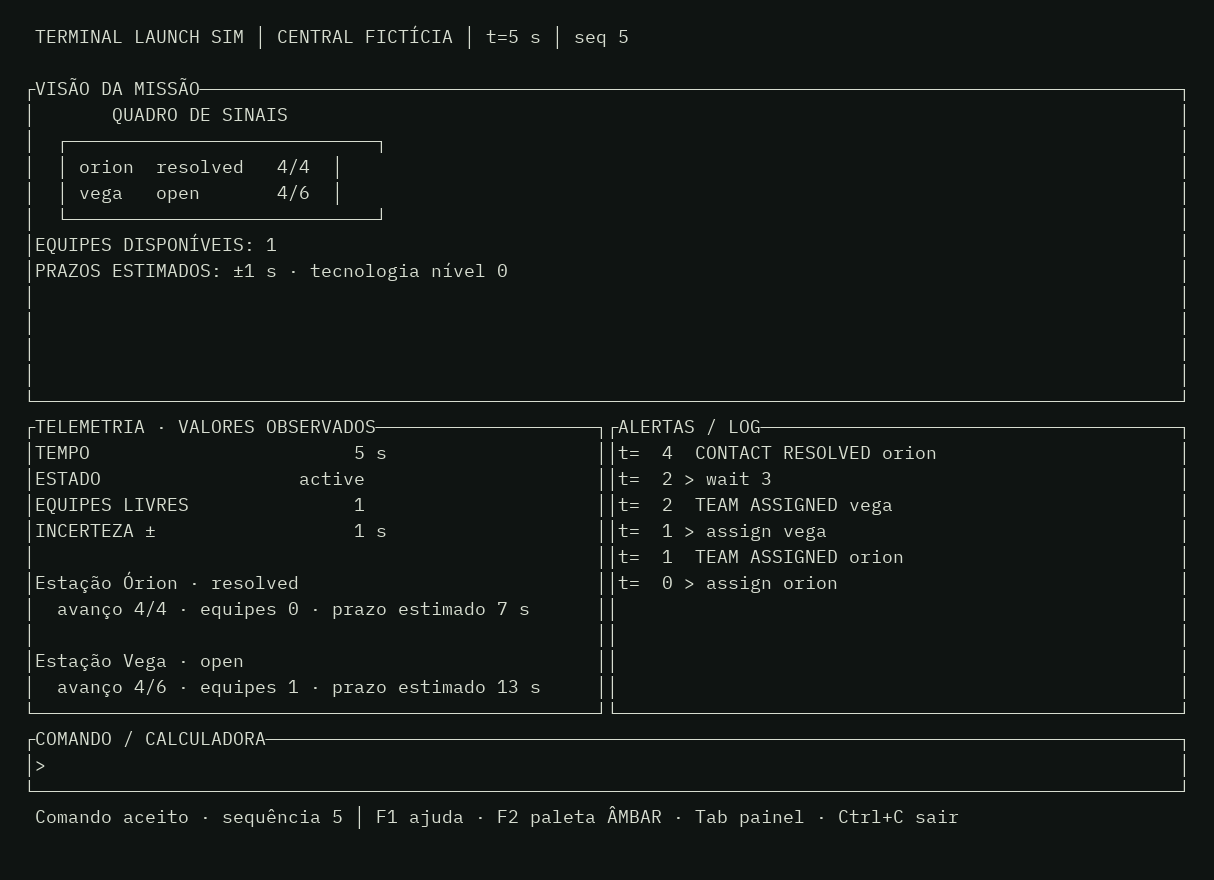
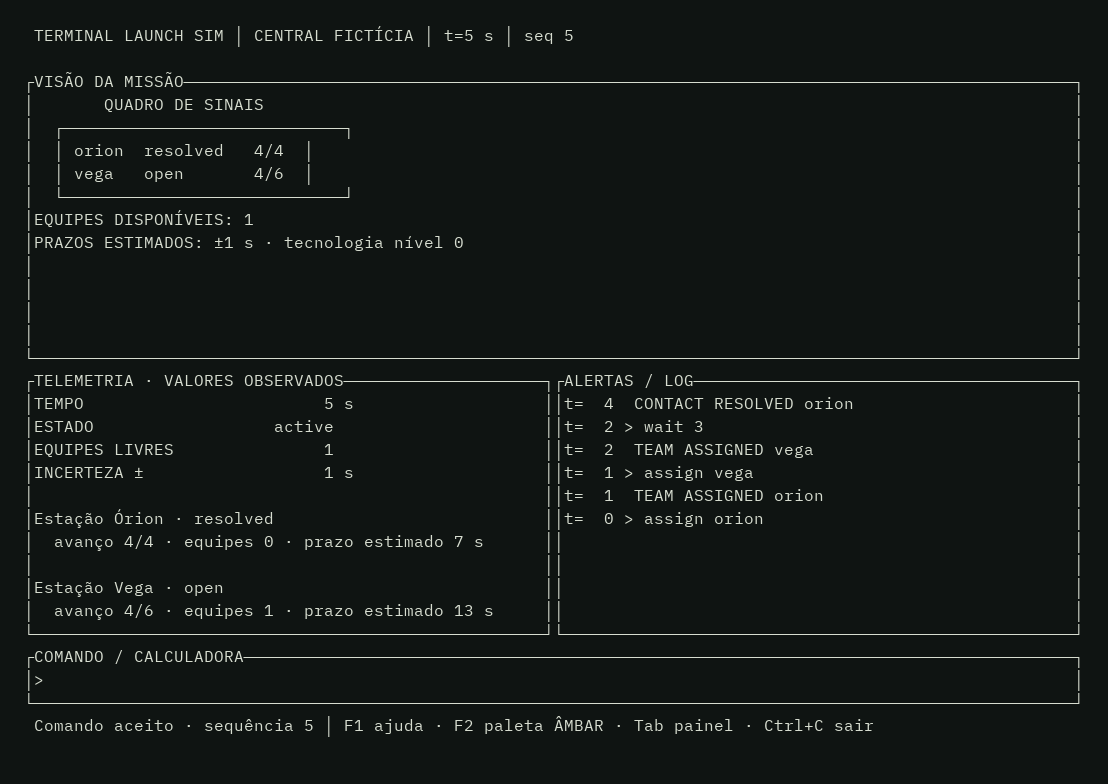
Add sensor network upgrade and detailed rocket display

diff --git a/frontend/src/main.rs b/frontend/src/main.rs
@@ -173,15 +173,15 @@ impl App {
         }
     }
 
-    fn unlock_filter(&mut self) {
+    fn unlock_technology(&mut self, id: &str) {
         match self
             .engine
-            .request("tech.unlock", None, 0, json!({"id": "filter"}))
+            .request("tech.unlock", None, 0, json!({"id": id}))
         {
             Ok(data) => {
                 self.profile = Some(data["profile"].clone());
                 self.panel = Panel::Research;
-                self.status = "Bancada desbloqueada; efeito nas próximas missões".into();
+                self.status = format!("Tecnologia {id} desbloqueada; ativa nas próximas missões");
             }
             Err(e) => self.status = e,
         }
@@ -210,7 +210,11 @@ impl App {
             return;
         }
         if command == "research filter" || command == "pesquisar filtro" {
-            self.unlock_filter();
+            self.unlock_technology("filter");
+            return;
+        }
+        if command == "research network" || command == "pesquisar rede" {
+            self.unlock_technology("network");
             return;
         }
         let parts: Vec<&str> = command.split_whitespace().collect();
@@ -376,10 +380,17 @@ fn format_number(value: &Value) -> String {
 fn format_event(event: &Value) -> String {
     let time = event["time_s"].as_u64().unwrap_or(0);
     let kind = event["type"].as_str().unwrap_or("evento");
-    let detail = event["contact"]
+    let mut detail = event["contact"]
         .as_str()
         .or_else(|| event["result"].as_str())
-        .unwrap_or("");
+        .unwrap_or("")
+        .to_string();
+    if let Some(metres) = event["difference_m"].as_u64() {
+        detail = format!("{metres} m");
+    }
+    if let Some(seconds) = event["remaining_s"].as_u64() {
+        detail = format!("{detail} · {seconds} s restantes");
+    }
     format!(
         "t={time:>3}  {} {}",
         kind.replace('_', " ").to_uppercase(),
@@ -419,11 +430,17 @@ fn telemetry_lines(o: &Value) -> Vec<String> {
             field(o, "target_altitude_m", "META", "m"),
             field(o, "check_complete", "CHECAGEM", ""),
         ]);
+        if o["sensor_disagreement_m"].is_number() {
+            lines.push(field(o, "sensor_disagreement_m", "DIVERGÊNCIA", "m"));
+        }
     } else {
         lines.extend([
             field(o, "available_teams", "EQUIPES LIVRES", ""),
             field(o, "deadline_uncertainty_s", "INCERTEZA ±", "s"),
         ]);
+        if o["network_monitoring"] == true {
+            lines.push("MALHA DE SENSORES      ATIVA".into());
+        }
         if let Some(contacts) = o["contacts"].as_array() {
             for c in contacts {
                 lines.push(String::new());
@@ -447,28 +464,47 @@ fn telemetry_lines(o: &Value) -> Vec<String> {
 
 fn mission_lines(o: &Value) -> Vec<String> {
     if o["mode"] == "space" {
-        vec![
-            "             ┌────┐".into(),
-            r"             │ /\ │".into(),
-            "             │ || │   FOGUETE DE PESQUISA".into(),
-            "             │ || │".into(),
-            "           ──┴────┴──".into(),
+        let phase = o["phase"].as_str().unwrap_or("?");
+        let plume = if phase == "powered" {
+            "          /\\/\\       EXAUSTÃO"
+        } else if phase == "ready" {
+            "         ======      BASE"
+        } else {
+            "           ||        MOTOR INATIVO"
+        };
+        let mut lines = vec![
+            "            /\\".into(),
+            "           /  \\".into(),
+            "          /____\\      CARGA DE PESQUISA".into(),
+            "          | <> |".into(),
+            "          |----|      SEPARAÇÃO".into(),
+            "          | || |      TANQUE".into(),
+            "         /|____|\\".into(),
+            "        /_/ || \\_\\    ALETAS".into(),
+            plume.into(),
             format!(
-                "ALT {} m  ·  VEL {} m/s",
+                "ALT {} m · VEL {} m/s · FASE {phase}",
                 format_number(&o["altitude_m"]),
                 format_number(&o["velocity_m_s"])
             ),
-            format!(
-                "META {} m  ·  FASE {}",
+        ];
+        if o["secondary_altitude_m"].is_number() {
+            lines.push(format!(
+                "A {} m · B {} m · diferença {} m · META {} m",
+                format_number(&o["primary_altitude_m"]),
+                format_number(&o["secondary_altitude_m"]),
+                format_number(&o["sensor_disagreement_m"]),
+                format_number(&o["target_altitude_m"])
+            ));
+        } else {
+            lines.push(format!(
+                "META {} m · ALTITUDE ±{} m · tecnologia nível {}",
                 format_number(&o["target_altitude_m"]),
-                o["phase"].as_str().unwrap_or("?")
-            ),
-            format!(
-                "OBSERVAÇÃO: altitude ±{} m; tecnologia nível {}",
                 format_number(&o["altitude_uncertainty_m"]),
                 format_number(&o["tech_level"])
-            ),
-        ]
+            ));
+        }
+        lines
     } else {
         let mut lines = vec![
             "       QUADRO DE SINAIS".into(),
@@ -497,6 +533,9 @@ fn mission_lines(o: &Value) -> Vec<String> {
                 format_number(&o["tech_level"])
             ),
         ]);
+        if o["network_monitoring"] == true {
+            lines.push("REDE ATIVA: alerta automático perto do prazo".into());
+        }
         lines
     }
 }
@@ -505,28 +544,39 @@ fn research_lines(profile: Option<&Value>) -> Vec<String> {
     let Some(profile) = profile else {
         return vec!["Perfil de pesquisa indisponível".into()];
     };
-    let unlocked = profile["next_unlock"]["unlocked"] == true;
-    vec![
+    let filter = profile["filter_unlocked"] == true;
+    let network = profile["network_unlocked"] == true;
+    let mut lines = vec![
         "      LABORATÓRIO DE COMPUTAÇÃO".into(),
         String::new(),
         format!("PONTOS DISPONÍVEIS: {}", format_number(&profile["points"])),
         format!("NÍVEL TECNOLÓGICO: {}", format_number(&profile["tier"])),
         String::new(),
         format!(
-            "[{}] BANCADA DE FILTRAGEM · custo {} ponto(s)",
-            if unlocked { "X" } else { " " },
-            format_number(&profile["next_unlock"]["cost"])
+            "[{}] BANCADA DE FILTRAGEM · altitude e prazo mais precisos",
+            if filter { "X" } else { " " }
         ),
-        "Efeito: altitude ±5 m → ±3 m; prazo ±1 s → 0 s".into(),
-        if unlocked {
-            "Ativa nas novas missões".into()
-        } else {
-            "Desbloqueie com: research filter".into()
-        },
+        format!(
+            "[{}] REDE DE SENSORES · dois canais e avisos de prazo",
+            if network { "X" } else { " " }
+        ),
         String::new(),
-        "PRÓXIMAS ETAPAS: rede de sensores, IA e supercomputação".into(),
-        "Essas etapas ainda estão em desenvolvimento.".into(),
-    ]
+    ];
+    if profile["next_unlock"].is_object() {
+        lines.push(format!(
+            "PRÓXIMO: {} · {} ponto(s)",
+            profile["next_unlock"]["title"].as_str().unwrap_or("?"),
+            format_number(&profile["next_unlock"]["cost"])
+        ));
+        lines.push(format!(
+            "Comando: research {}",
+            profile["next_unlock"]["id"].as_str().unwrap_or("?")
+        ));
+    } else {
+        lines.push("PRÓXIMAS ETAPAS: IA e supercomputação em desenvolvimento".into());
+    }
+    lines.push("Desbloqueios afetam somente novas missões.".into());
+    lines
 }
 
 fn render_lines(
@@ -712,6 +762,7 @@ fn draw(frame: &mut ratatui::Frame, app: &App) {
             "  snapshot: sincroniza instrumentos".into(),
             "  tech: pesquisa e pontos disponíveis".into(),
             "  research filter: compra a bancada".into(),
+            "  research network: compra a rede de sensores".into(),
             "  calc speed DISTÂNCIA_M TEMPO_S".into(),
             "  calc eta TRABALHO_RESTANTE EQUIPES".into(),
             "".into(),

diff --git a/scripts/capture_screens.py b/scripts/capture_screens.py
@@ -61,7 +61,7 @@ def capture(mode, commands, destination):
         os.write(master, mode.encode())
         drain(master, stream, 0.6)
         for command in commands:
-            os.write(master, command.encode() + b"\r")
+            os.write(master, b"\t" if command == "<TAB>" else command.encode() + b"\r")
             drain(master, stream, 0.5)
         draw(screen, destination)
     finally:
@@ -79,9 +79,9 @@ def draw(screen, destination):
     font_path = subprocess.check_output(
         ["fc-match", "-f", "%{file}", "DejaVu Sans Mono"], text=True
     ).strip()
-    font = ImageFont.truetype(font_path, 18)
+    font = ImageFont.truetype(font_path, 16)
     cell_width = round(font.getlength("M"))
-    cell_height = 26
+    cell_height = 23
     pad = 24
     background = (15, 20, 18)
     image = Image.new(
@@ -122,4 +122,13 @@ if __name__ == "__main__":
     capture("2", ["assign orion", "assign vega", "wait 3"], OUT / "central.png")
     capture("2", ["assign orion", "assign vega", "wait 10", "research filter", "central 43", "tech"],
             OUT / "research.png")
-    print("Captured space.png, central.png and research.png")
+    network_setup = [
+        "assign orion", "assign vega", "wait 10", "research filter",
+        "central 43", "assign orion", "assign vega", "wait 10",
+        "central 44", "assign orion", "assign vega", "wait 10",
+        "research network",
+    ]
+    capture("2", network_setup + ["central 45", "wait 13", "tech"], OUT / "network.png")
+    capture("2", network_setup + ["space 46", "<TAB>", "check", "launch", "wait 30"],
+            OUT / "space_network.png")
+    print("Captured five screenshots in docs/screenshots/")

diff --git a/docs/PROGRESSION.md b/docs/PROGRESSION.md
@@ -1,6 +1,6 @@
 # Progressão computacional retrofuturista
 
-**Estado:** primeiro desbloqueio jogável; demais etapas em planejamento. O protótipo salva pontos e a bancada de filtragem em um perfil JSON local. O universo usa a linguagem visual e as ideias precursoras dos anos 1990, mas acelera deliberadamente a evolução do poder computacional. A linha do tempo é fictícia.
+**Estado:** dois desbloqueios jogáveis; IA e supercomputação em planejamento. O protótipo salva pontos, filtragem e rede de sensores em um perfil JSON local. O universo usa a linguagem visual e as ideias precursoras dos anos 1990, mas acelera deliberadamente a evolução do poder computacional. A linha do tempo é fictícia.
 
 ## Ciclo de jogo
 
@@ -10,7 +10,7 @@
 4. Investir pontos, capacidade elétrica e manutenção em uma tecnologia. O desbloqueio fica no perfil da campanha e abre instrumentos ou análises para as missões seguintes.
 5. Reexecutar cenários com a mesma semente e modelo para comparar o efeito da tecnologia sobre a informação disponível, sem mudar as leis do cenário.
 
-Nesta versão, uma missão concluída com sucesso concede dois pontos; uma conclusão parcial concede um. A mesma combinação de modo e semente só pontua uma vez, mesmo depois de reiniciar o cliente. A bancada custa dois pontos e só afeta missões criadas depois da compra. Os custos e a produção de pontos ainda precisam de balanceamento. A progressão não depende de esperar tempo real nem de compras externas. Modo prática e modo avaliação ainda não foram implementados.
+Nesta versão, uma missão concluída com sucesso concede dois pontos; uma conclusão parcial concede um. A mesma combinação de modo e semente só pontua uma vez, mesmo depois de reiniciar o cliente. A bancada custa dois pontos; a rede exige a bancada e custa mais três. Ambas só afetam missões criadas depois da compra. Os custos e a produção de pontos ainda precisam de balanceamento. A progressão não depende de esperar tempo real nem de compras externas. Modo prática e modo avaliação ainda não foram implementados.
 
 ## Árvore proposta
 
@@ -18,7 +18,7 @@ Nesta versão, uma missão concluída com sucesso concede dois pontos; uma concl
 | --- | --- | --- | --- | --- |
 | 0. Sala de máquinas | terminais, calculadoras e sistemas especialistas | console central | leituras básicas, previsão manual e relatórios simples | poucos canais e atraso alto |
 | 1. Estações de análise | processamento digital de sinais e estações de trabalho | bancada de filtragem | faixa de incerteza menor após calibração; histórico de séries temporais | consome energia e exige amostras de calibração |
-| 2. Rede de sensores | telemetria distribuída e dispositivos conectados | malha de nós | mais pontos de observação e detecção de divergência entre sensores | canais podem falhar; dados conflitantes exigem revisão |
+| 2. Rede de sensores | telemetria distribuída e dispositivos conectados | malha de nós | dois canais de altitude e alerta de divergência; aviso de prazo na central | custa 3 pontos; falha de canal ainda não simulada |
 | 3. Apoio à decisão | sistemas especialistas e aprendizado estatístico | laboratório de hipóteses | compara múltiplas previsões e destaca anomalias com taxa de erro visível | exige dados rotulados e validação; não emite comandos sozinho |
 | 4. Supercomputação | computação paralela e simulação numérica | conjunto de computadores | executa conjuntos de simulações e apresenta intervalo de resultados | alto custo de energia, manutenção e tempo de cálculo |
 
@@ -27,12 +27,12 @@ As etapas representam **capacidades de jogo**, não uma cronologia técnica lite
 ## Efeito nas campanhas
 
 - **Espacial:** filtragem torna a altitude observada mais confiável; a rede compara sensores; o laboratório e o conjunto de computadores permitem comparar trajetórias previstas com telemetria e explorar incertezas. Empuxo, massa, gravidade e arrasto seguem o modelo científico versionado da missão.
-- **Central fictícia:** a rede revela mais contatos e atrasos de comunicação; apoio à decisão ordena hipóteses e mostra confiança; supercomputação compara cenários de alocação de equipes. Prazos, trabalho exigido e resultado seguem as regras versionadas do cenário.
+- **Central fictícia:** a rede avisa quando cada contato aberto chega a cinco segundos do prazo; apoio à decisão ordenará hipóteses e mostrará confiança; supercomputação comparará cenários de alocação de equipes. Prazos, trabalho exigido e resultado seguem as regras versionadas do cenário.
 
 Cada melhoria precisa aparecer no catálogo de modelos com versão, entradas, unidade, hipótese, custo e teste de referência. Replay registra perfil tecnológico e versão da árvore no início da partida. Uma alteração de tecnologia durante uma missão só ocorre se a regra do cenário permitir e fica registrada como comando. Relatórios mostram quais decisões vieram do jogador e quais análises foram oferecidas pelo sistema.
 
-## Primeiro incremento implementado
+## Incrementos implementados
 
 O perfil persistente registra pontos, nível desbloqueado, próximo ID de partida e combinações de modo/semente já recompensadas. O protocolo concede pontos ao fechar uma missão e recusa recompensa duplicada. `tech.status` mostra o perfil; `tech.unlock` compra a **bancada de filtragem**. Ela reduz o erro de altitude de ±5 m para ±3 m no modo espacial e elimina o jitter de ±1 s na estimativa de prazo da central. A leitura verdadeira e a regra de vitória ficam iguais. Os testes comparam a mesma semente antes e depois da melhoria.
 
-O perfil usa JSON atômico em `~/.local/share/terminal-launch-sim/profile.json` (ou `XDG_DATA_HOME`/`TLS_PROFILE_PATH`) enquanto o projeto ainda não tem a persistência SQLite especificada para V1. Partidas não são retomadas após reinício. Rede de sensores, apoio à decisão e supercomputação continuam metas da árvore, ainda sem efeito jogável.
+A rede de sensores adiciona duas leituras de altitude e uma estimativa combinada no modo espacial; divergências de pelo menos 4 m geram aviso, limitado a um por 10 s simulados. Na central, cada contato aberto gera um aviso ao chegar a cinco segundos do prazo. Os alertas ajudam o jogador a reagir, mas não mudam a trajetória, o prazo ou a regra de vitória. O perfil usa JSON atômico em `~/.local/share/terminal-launch-sim/profile.json` (ou `XDG_DATA_HOME`/`TLS_PROFILE_PATH`) enquanto o projeto ainda não tem a persistência SQLite especificada para V1. Partidas não são retomadas após reinício. Apoio à decisão e supercomputação continuam metas sem efeito jogável.

diff --git a/docs/MODELS.md b/docs/MODELS.md
@@ -1,4 +1,4 @@
-# Modelos do protótipo 0.2.0
+# Modelos do protótipo 0.3.0
 
 Estes valores são **hipóteses de jogo** e não representam um veículo, sistema militar ou ambiente operacional real. O modelo espacial serve para ensinar relação entre massa, força, arrasto e altitude. O modo central serve para ensinar alocação de recursos e prazos. Nenhum dos dois foi validado para uso fora do jogo.
 
@@ -6,7 +6,7 @@ Estes valores são **hipóteses de jogo** e não representam um veículo, sistem
 
 O cenário começa em altitude zero, velocidade zero, massa seca de 80 kg e combustível de 100 kg. Após `check`, `launch` liga um motor de empuxo constante de 4.000 N e consumo de 2 kg/s. A cada segundo, a massa usada no cálculo é a massa no meio do passo. Gravidade constante: 9,81 m/s². Densidade do ar: `1,225 * exp(-altitude_m / 8.500)` kg/m³. Arrasto vertical: `0,5 * densidade * 0,12 * velocidade * abs(velocidade)` N. A velocidade usa Euler explícito; altitude usa a média entre as velocidades anterior e nova. O chão limita a altitude a zero.
 
-O voo encerra ao voltar ao chão. Apogeu de pelo menos 2.000 m dá `success`; abaixo disso dá `partial`. `abort` dá `failed`. A leitura de altitude é arredondada a metros e recebe erro uniforme determinístico de até 5 m por passo, derivado da semente. Com a bancada de filtragem, o limite cai para 3 m usando a mesma amostra aleatória. A velocidade exibida é a velocidade verdadeira arredondada a m/s; este canal ainda não simula erro de sensor. O apogeu exibido é o máximo verdadeiro arredondado, uma informação de relatório, não leitura instantânea. O motor guarda valor verdadeiro separado da observação.
+O voo encerra ao voltar ao chão. Apogeu de pelo menos 2.000 m dá `success`; abaixo disso dá `partial`. `abort` dá `failed`. A leitura de altitude é arredondada a metros e recebe erro uniforme determinístico de até 5 m por passo, derivado da semente. Com a bancada de filtragem, o limite cai para 3 m usando a mesma amostra aleatória. Com a rede de sensores, dois canais com amostras distintas da sequência pseudoaleatória e erro de até 3 m são mostrados e a altitude observada usa a média arredondada dos canais. A divergência entre eles fica visível; quando chega a 4 m, um alerta é emitido, limitado a um por intervalo de 10 s simulados. A velocidade exibida é a velocidade verdadeira arredondada a m/s; este canal ainda não simula erro de sensor. O apogeu exibido é o máximo verdadeiro arredondado, uma informação de relatório, não leitura instantânea. O motor guarda valor verdadeiro separado da observação.
 
 Domínio pretendido: voo vertical curto, altitude não negativa, passo fixo de 1 s. Não há orientação, vento, rotação, propagação de incerteza, variação de gravidade, fases de paraquedas ou precisão perto do instante exato de pouso. A integração e os parâmetros precisam de comparação independente antes de virar modelo de campanha.
 
@@ -14,7 +14,7 @@ Domínio pretendido: voo vertical curto, altitude não negativa, passo fixo de 1
 
 Duas estações de comunicação fictícias entram ao mesmo tempo. Órion tem prazo de 12 s e exige 4 unidades de trabalho; Vega tem prazo de 18 s e exige 6. Há duas equipes. Cada equipe alocada entrega uma unidade de trabalho por segundo. Um contato resolve quando o trabalho acumulado atinge seu requisito; se não resolver até o prazo, fica `missed`. Equipes voltam ao conjunto disponível quando o contato fecha. A missão termina quando ambos fecham: `success` se ambos resolveram, `partial` caso contrário.
 
-O prazo verdadeiro fica no estado do motor. O painel mostra `estimated_remaining_s`, calculado pelo prazo restante mais um atraso fictício de comunicação entre -1 s e +1 s, escolhido pela semente a cada passo. A incerteza de ±1 s pode afetar a decisão do jogador; o prazo real continua determinando o resultado. Com a bancada de filtragem, o jitter é zero e a estimativa de prazo fica exata neste modelo introdutório. A previsão `work_eta` da calculadora usa `ceil(remaining_work / teams)` segundos. Os valores e nomes são inventados, sem equivalência com equipamento ou procedimento militar real.
+O prazo verdadeiro fica no estado do motor. O painel mostra `estimated_remaining_s`, calculado pelo prazo restante mais um atraso fictício de comunicação entre -1 s e +1 s, escolhido pela semente a cada passo. A incerteza de ±1 s pode afetar a decisão do jogador; o prazo real continua determinando o resultado. Com a bancada de filtragem, o jitter é zero e a estimativa de prazo fica exata neste modelo introdutório. Com a rede de sensores, cada contato aberto gera um aviso único ao chegar a cinco segundos ou menos do prazo verdadeiro. A previsão `work_eta` da calculadora usa `ceil(remaining_work / teams)` segundos. Os valores e nomes são inventados, sem equivalência com equipamento ou procedimento militar real.
 
 ## Reprodutibilidade e calculadora
 

diff --git a/README.md b/README.md
@@ -25,6 +25,10 @@ Capturas da TUI em execução, geradas em um terminal de 106 × 32 caracteres:
 
 ![Laboratório de pesquisa após desbloquear a bancada de filtragem](docs/screenshots/research.png)
 
+![Rede de sensores desbloqueada com avisos de prazo na central](docs/screenshots/network.png)
+
+![Foguete detalhado com dois canais de altitude e alerta de divergência](docs/screenshots/space_network.png)
+
 As imagens podem ser atualizadas com `cargo build --manifest-path frontend/Cargo.toml` e `python scripts/capture_screens.py`. O script de captura requer Pillow, pyte e uma fonte monoespaçada acessível por `fc-match`; essas ferramentas não são necessárias para jogar.
 
 Para usar o console Elixir diretamente:
@@ -39,11 +43,11 @@ mix run -e 'Engine.CLI.main(System.argv())' -- central
 
 No modo espacial, use `check`, `launch` e `wait 100`. Na central, use `assign orion`, `assign vega` e `wait 10`. `help` lista os comandos e `quit` sai. Cada comando avança um segundo; `wait N` avança até N segundos ou o fim da missão. A interface mostra somente o estado observável; o estado interno fica disponível para testes e replay.
 
-Na TUI, conclua a missão da central para receber dois pontos de pesquisa. Digite `tech` para ver o laboratório, `research filter` para desbloquear a bancada e `central 43` ou `space 43` para iniciar uma missão com a nova semente e instrumentos calibrados. O perfil fica salvo em `~/.local/share/terminal-launch-sim/profile.json` ou no caminho de `TLS_PROFILE_PATH`.
+Na TUI, conclua uma missão inédita para receber pontos de pesquisa. Digite `tech` para ver o laboratório; `research filter` custa dois pontos, e `research network` custa três após a bancada. Use `central 43` ou `space 43` para iniciar outra semente com as melhorias. O perfil fica salvo em `~/.local/share/terminal-launch-sim/profile.json` ou no caminho de `TLS_PROFILE_PATH`.
 
 ## Estado do projeto
 
-Este é um **protótipo de motor, protocolo e TUI**, não a V1 definida em [SPEC.md](SPEC.md). Já há dois cenários introdutórios, semente, eventos, observações, cálculos básicos, interface por teclado e o primeiro desbloqueio de pesquisa. Faltam campanhas e tutoriais, as etapas de rede de sensores, IA e supercomputação, persistência SQLite de partidas, recuperação de partidas, validação científica mais ampla e distribuição. O perfil de pesquisa usa JSON local nesta etapa. Os modelos e limites atuais estão em [docs/MODELS.md](docs/MODELS.md), e a árvore planejada em [docs/PROGRESSION.md](docs/PROGRESSION.md).
+Este é um **protótipo de motor, protocolo e TUI**, não a V1 definida em [SPEC.md](SPEC.md). Já há dois cenários introdutórios, semente, eventos, observações, cálculos básicos, interface por teclado, filtragem e rede de sensores. Faltam campanhas e tutoriais, as etapas de IA e supercomputação, persistência SQLite de partidas, recuperação de partidas, validação científica mais ampla e distribuição. O perfil de pesquisa usa JSON local nesta etapa. Os modelos e limites atuais estão em [docs/MODELS.md](docs/MODELS.md), e a árvore planejada em [docs/PROGRESSION.md](docs/PROGRESSION.md).
 
 ## Estrutura
 

diff --git a/protocol/README.md b/protocol/README.md
@@ -19,7 +19,7 @@ Pedido:
 Resposta:
 
 ```json
-{"protocol_version":1,"request_id":"req-1","run_id":"run-1","seq":0,"type":"response","payload":{"ok":true,"data":{"snapshot":{"run_id":"run-1","seq":0,"observation":{"mode":"space","model_version":"0.2.0","tech_level":0,"time_s":0,"status":"active","phase":"ready","altitude_m":0,"velocity_m_s":0,"fuel_kg":100.0,"peak_altitude_m":0,"altitude_uncertainty_m":5,"target_altitude_m":2000.0,"check_complete":false},"events":[]}}}}
+{"protocol_version":1,"request_id":"req-1","run_id":"run-1","seq":0,"type":"response","payload":{"ok":true,"data":{"snapshot":{"run_id":"run-1","seq":0,"observation":{"mode":"space","model_version":"0.3.0","tech_level":0,"time_s":0,"status":"active","phase":"ready","altitude_m":0,"velocity_m_s":0,"fuel_kg":100.0,"peak_altitude_m":0,"altitude_uncertainty_m":5,"target_altitude_m":2000.0,"check_complete":false},"events":[]}}}}
 ```
 
 Erro:
@@ -40,7 +40,7 @@ Erro:
 | `run.snapshot` | `{}` | `snapshot` atual, com `events:[]` |
 | `calculator.evaluate` | `{"model":"average_speed","inputs":{"distance_m":100,"time_s":20}}` | `result` com valor, unidade, versão e explicação |
 | `tech.status` | `{}` | `profile` com pontos, nível e próximo desbloqueio |
-| `tech.unlock` | `{"id":"filter"}` | `profile` atualizado ou erro por pontos insuficientes |
+| `tech.unlock` | `{"id":"filter"}` ou `{"id":"network"}` | `profile` atualizado ou erro por pontos/pré-requisito |
 
 Comandos espaciais: `check`, `launch`, `abort`, `wait`, `wait N` (1 a 500). Comandos da central: `assign orion`, `assign vega`, `recall orion`, `recall vega`, `wait`, `wait N`. `wait N` executa até N passos de um segundo e para quando a partida termina.
 
@@ -48,4 +48,4 @@ Calculadora: `average_speed` usa `distance_m` e `time_s`; `work_eta` usa `remain
 
 O snapshot contém apenas `Engine.observe/1`, sem semente, estado aleatório ou valores verdadeiros internos. `events` contém os eventos produzidos por aquele comando. `run.create` e `run.snapshot` devolvem `events:[]`.
 
-Ao fechar uma missão, `run.command` devolve `research_points_earned` (0, 1 ou 2). O mesmo par modo/semente pontua uma única vez no perfil. A bancada de filtragem custa dois pontos e afeta somente partidas criadas após `tech.unlock`: altitude espacial ±3 m em vez de ±5 m e prazo estimado da central com jitter zero em vez de ±1 s. Os demais níveis da árvore ainda não estão implementados.
+Ao fechar uma missão, `run.command` devolve `research_points_earned` (0, 1 ou 2). O mesmo par modo/semente pontua uma única vez no perfil. A bancada de filtragem custa dois pontos e afeta somente partidas criadas após `tech.unlock`: altitude espacial ±3 m em vez de ±5 m e prazo estimado da central com jitter zero em vez de ±1 s. A rede de sensores custa três pontos após a bancada: adiciona dois canais de altitude e alerta de divergência no voo; na central, alerta uma vez por contato aberto ao se aproximar do prazo. IA e supercomputação ainda não estão implementadas.

diff --git a/frontend/README.md b/frontend/README.md
@@ -11,8 +11,10 @@ cargo run
 
 Na abertura, pressione `1` para o programa espacial ou `2` para a central fictícia. Digite comandos na linha inferior e pressione Enter. `F1` abre ajuda, `F2` troca entre âmbar, verde e sem cor, `Tab` ou `F3` alterna os painéis em terminais pequenos e `Ctrl+C` sai. A interface não usa animação. `Esc` limpa a entrada. Os comandos `space` e `central` iniciam novos exercícios.
 
+O tamanho das letras depende do emulador de terminal. Para abrir em uma janela Kitty com fonte um pouco menor, a partir da raiz do repositório: `kitty -o font_size=11 --directory frontend cargo run`. O jogo não altera a configuração global do terminal.
+
 Comandos do programa espacial: `check`, `launch`, `abort`, `wait N`. Comandos da central: `assign orion`, `assign vega`, `recall orion`, `recall vega`, `wait N`. `N` vai de 1 a 500. `snapshot` sincroniza os instrumentos. A calculadora usa `calc speed DISTÂNCIA_M TEMPO_S` ou `calc eta TRABALHO_RESTANTE EQUIPES`.
 
-`tech` mostra pontos de pesquisa e a árvore inicial. Uma conclusão inédita para a combinação de modo e semente concede dois pontos em caso de sucesso ou um em caso de conclusão parcial. `research filter` compra a primeira melhoria por dois pontos; ela afeta as próximas missões. Use `space 43` ou `central 43` para iniciar outra semente. O perfil é salvo localmente em `~/.local/share/terminal-launch-sim/profile.json`, respeitando `XDG_DATA_HOME` e `TLS_PROFILE_PATH`.
+`tech` mostra pontos de pesquisa e a árvore inicial. Uma conclusão inédita para a combinação de modo e semente concede dois pontos em caso de sucesso ou um em caso de conclusão parcial. `research filter` compra a bancada por dois pontos; `research network` compra a rede por três pontos após a bancada. Elas afetam as próximas missões. Use `space 43` ou `central 43` para iniciar outra semente. O perfil é salvo localmente em `~/.local/share/terminal-launch-sim/profile.json`, respeitando `XDG_DATA_HOME` e `TLS_PROFILE_PATH`.
 
 A TUI usa o contrato em [`../protocol/README.md`](../protocol/README.md). A simulação atual é um protótipo: salva o perfil de pesquisa, mas não salva nem retoma partidas ao fechar o cliente.
